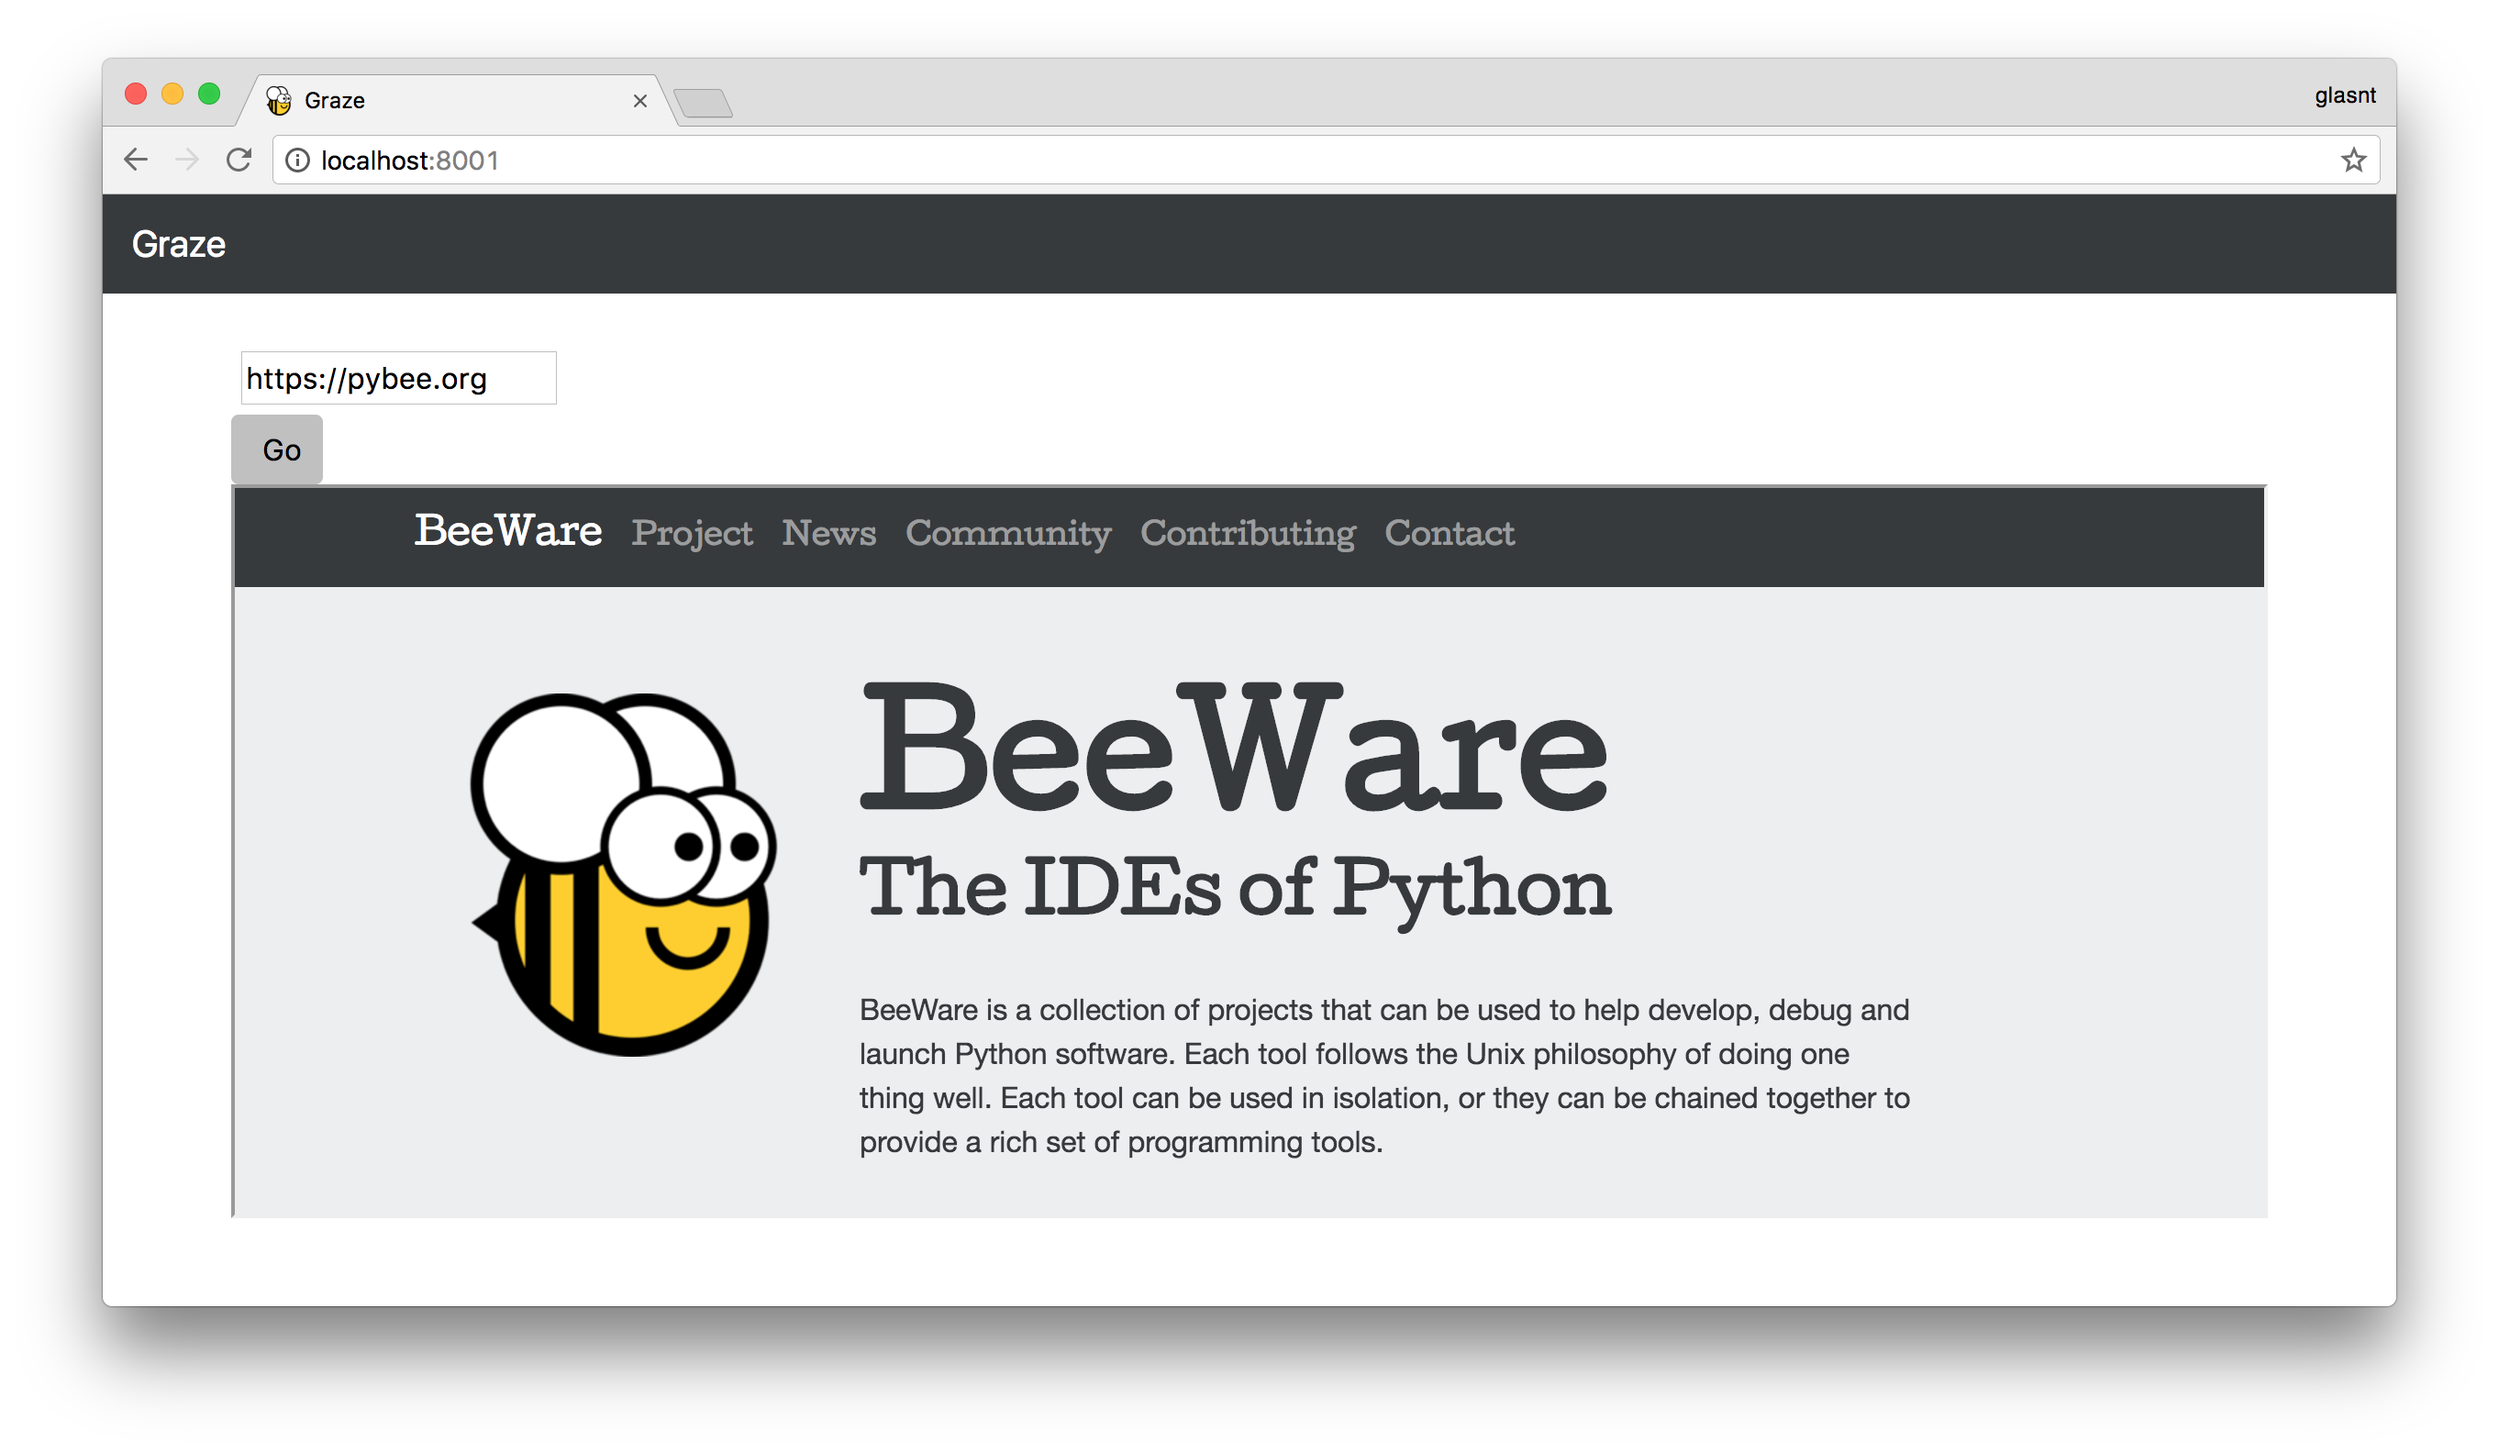
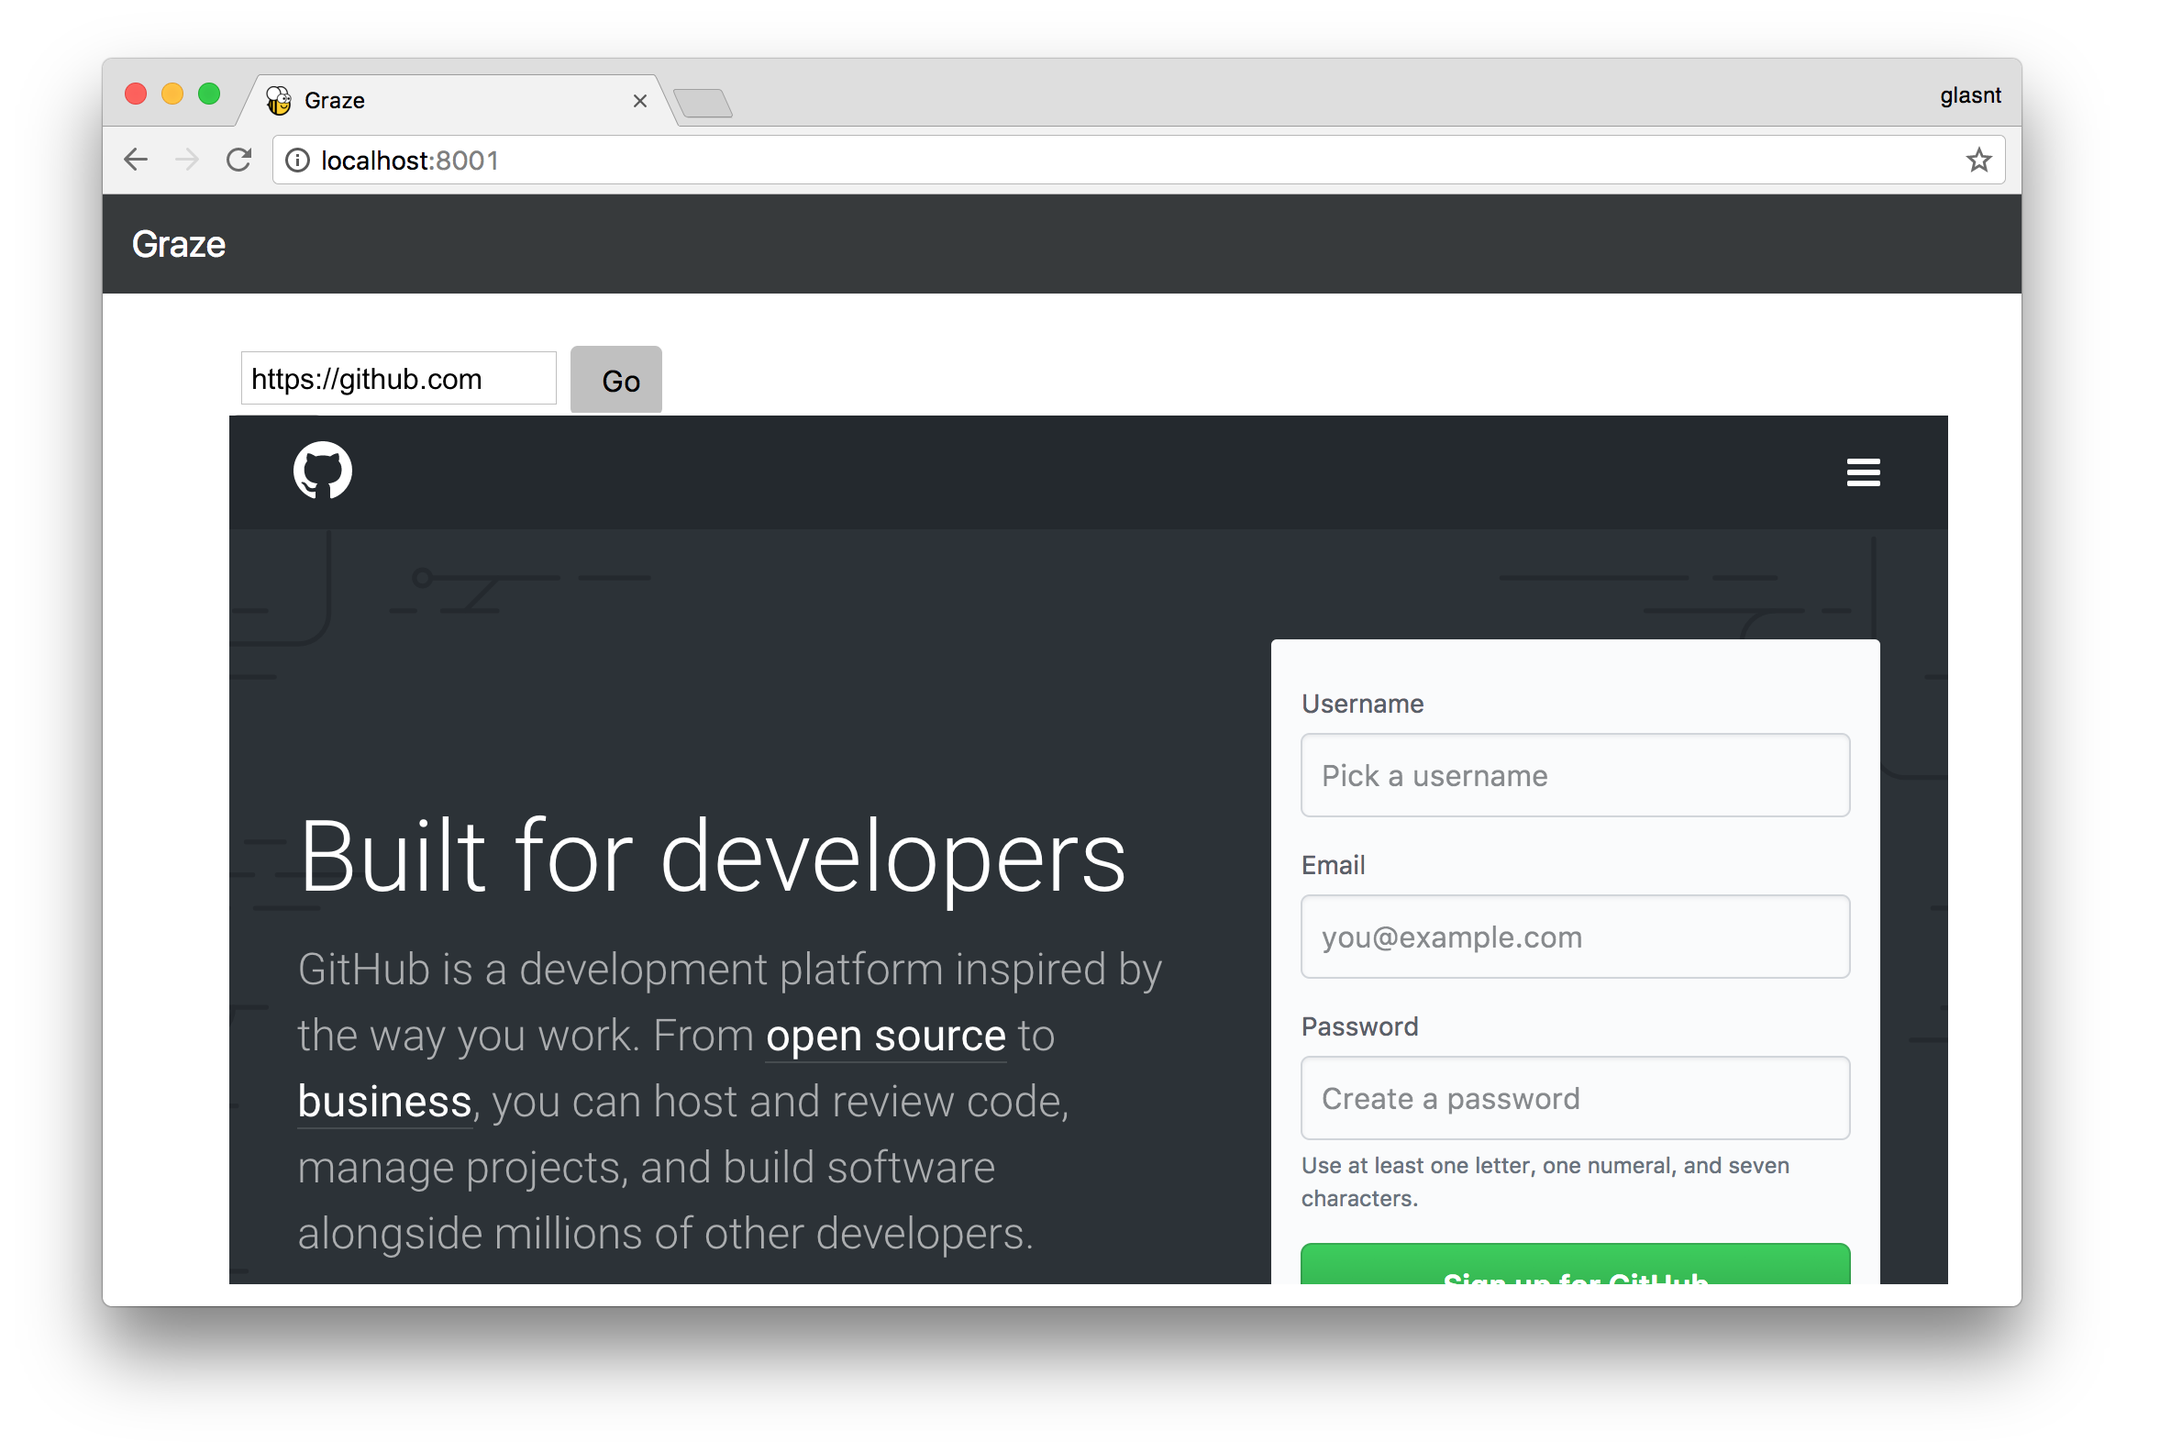
Save

diff --git a/2017_10_Constellation/Bees.podium/slides.md b/2017_10_Constellation/Bees.podium/slides.md
@@ -78,7 +78,7 @@ So you want to build a temperature converter
 
 ???
 
-So here's the mockup of the app. We have a field where we enter the temp in F, and then a field which shows us the temp in C. Press the buttom, and the value is calculated and placed in the C field. 
+So here's the mockup of the app. We have a field where we enter the temp in degress farenheight, and then a field which shows us the temp in degrees celcius. Press the buttom, and the value is calculated and placed in the celcius field. 
 
 So we know what we want our app to do, but how do we go about writing it?
 
@@ -91,7 +91,7 @@ Well it depends what platform we wantt o target.
 
 If you want a web app, you're going to have to use Javascript, html, and some css for styling
 
-If you want to build an iphone app, you're going to need swing
+If you want to build an iphone app, you're going to need SWIFT
 
 If you want an andoird app you're going to need java
 
@@ -137,6 +137,8 @@ Fun fact: python has recently migrated to GitHub from a self-hosted mercurial re
 ???
 
 To see just how beeware works, here's an example application built in Toga
+
+(NO PUN)
 
 Toga is a widget toolkit. We define an application with widgets declared by toga, and when it comes time to run the code on the host platform, we use the toga abstraction to call the base widgets. 
 
@@ -234,10 +236,13 @@ Thankfully, we have a app that can help us here.
 
 ???
 
-At beeware we don't just shave bespoke tibettan yaks. We are more than happy to take use store-bought yaks. 
+At beeware we don't just shave bespoke tibettan yaks. We are more than happy to take use store-bought yaks, and we contribute back financially.
+
 This is the case with cookiecutter
 
 With cookiecutter, you can easily create a template with replacement fields to create a structure for your app, project, receipe, anything you like
+
+
 
 ---
 
@@ -256,6 +261,10 @@ bundle [com.example]: org.pybee
 
 $ cp freedom.py freedom/app.py
 ```
+
+???
+
+DONT BUNDLE
 ---
 # &nbsp;
 ```shell 
@@ -263,6 +272,10 @@ $ python setup.py macos -s
 ```
 
 ![](images/freedom-macos.png)
+
+???
+
+And it runs on your mac
 
 ---
 ![](images/freedom-macos-folder.png)
@@ -272,7 +285,11 @@ $ python setup.py macos -s
 ```shell 
 $ python setup.py ios -s
 ```
-![](images/freedom-ios.png)
+![](images/freedom-ios-.png)
+
+???
+
+Run it with ios, and it runs on your iPhone 
 ---
 # &nbsp;
 ```shell 
@@ -299,10 +316,89 @@ $ python setup.py django -s
 ![](images/freedom-django.png)
 ---
 class: title
-# &nbsp;
+![](images/sparkles.png)
+???
+
+Ta da!
+ 
+but what else can we do?
+---
+
+class: title
+
+# More widgets, more possibilities
+
+???
+
+The more widgets you have, more than just firlesd and buttons
+
+---
+
+class: title
+
+# `toga.WebView`
+
+## A widget that's a browser window
+---
+
+```python
+import toga
+from colosseum import CSS
+
+class Graze(toga.App):
+    def startup(self):
+        self.main_window = toga.MainWindow(self.name)
+        self.main_window.app = self
+
+        self.webview = toga.WebView()
+        self.url_input = toga.TextInput(initial='https://github.com/')
+        # ... 
+        self.webview.url = self.url_input.value
+        self.main_window.show()
+
+    def load_page(self, widget):
+        self.webview.url = self.url_input.value
+
+if __name__ == '__main__':
+    app = Graze('Graze', 'org.pybee.graze')
+    app.main_loop()
+```
+---
+```shell
+$ python graze.py
+```
+
+![](images/toga-browser-gh-1.png) 
+
+---
+```shell
+$ python graze.py
+```
+
+![](images/toga-browser-gh-2.png) 
+
+---
+```shell
+$ python setup.py django -s
+```
+
+---
+```shell
+$ python setup.py django -s
+```
+![](images/toga-django-browser-2.png) 
+
+???
+
+Browser in a browser
+
+---
+class: title
+## Another example
+
 # This presentation
 
-## Yes, really. 
+### Yes, really. 
 
 ???
 
@@ -310,6 +406,11 @@ Really :)
 
 
 github.com/pybee/podium
+
+---
+
+
+background-image: url(images/podium-desktop.png)
 
 ---
 class: title
@@ -513,8 +614,8 @@ We take some python code, run it through CPython, and run it through our impleme
 We do that 10,000 times. It takes a while, even with a whole bunch of tweeks to make it go faster. 
 
 ---
-
-![](images/ci_services2.png)
+class: title
+![](images/ci_services.png)
 
 ???
 
@@ -555,7 +656,7 @@ We can scale up the amount of instances in the worker pool during sprints, and w
 
 class: title
 # pybee.org
-# @pybeeware
+## @pybeeware
 
 ???
 
@@ -565,15 +666,18 @@ If you are intersted in what we're doing with beeware, you can find out more on 
 ---
 
 class: title
+# &nbsp;
 ![](images/lca-logo.png)
 
 ???
 
 And if you're interested in coming to a development sprint, we'll be at two open source events in Sydney in the next few months
 
-Linux conf Austalia is on in January, and while it doesn't have sprints, do let us know and we can probably do a minisprint one evening
+Linux conf Austalia is on in January, tickets available now, and while it doesn't have sprints, do let us know if you're coming along and we can do a mini sprint. 
 
-And as we have for the past few years now, we'll be running sprints at PyCon Austarlia, the national Python language conference, in August. 
+
+And as we have for the past few years now, we'll be running sprints at PyCon Austarlia, the national Python language conference, in August next year. 
+
 ---
 
 
